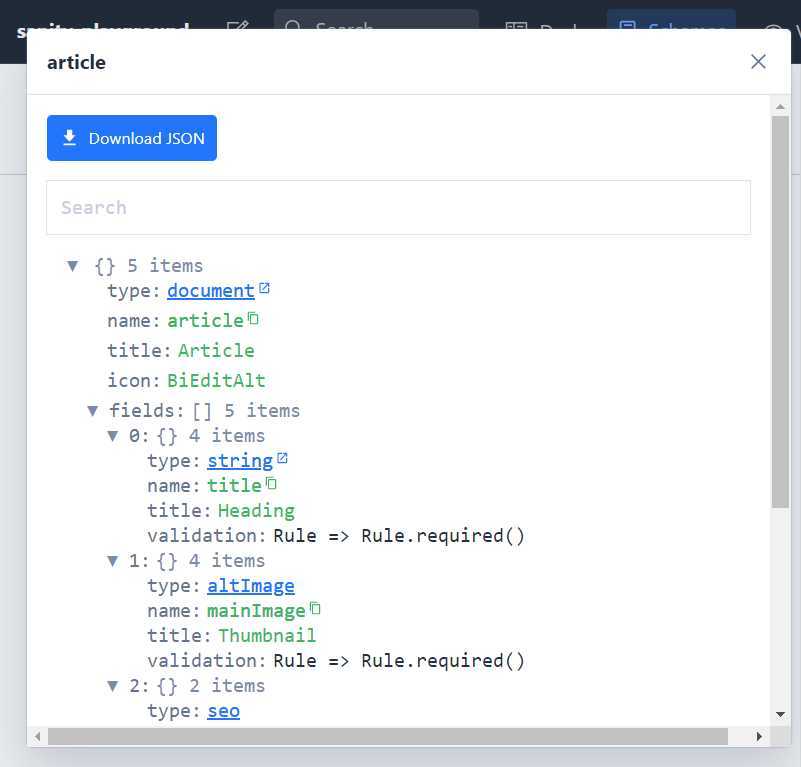
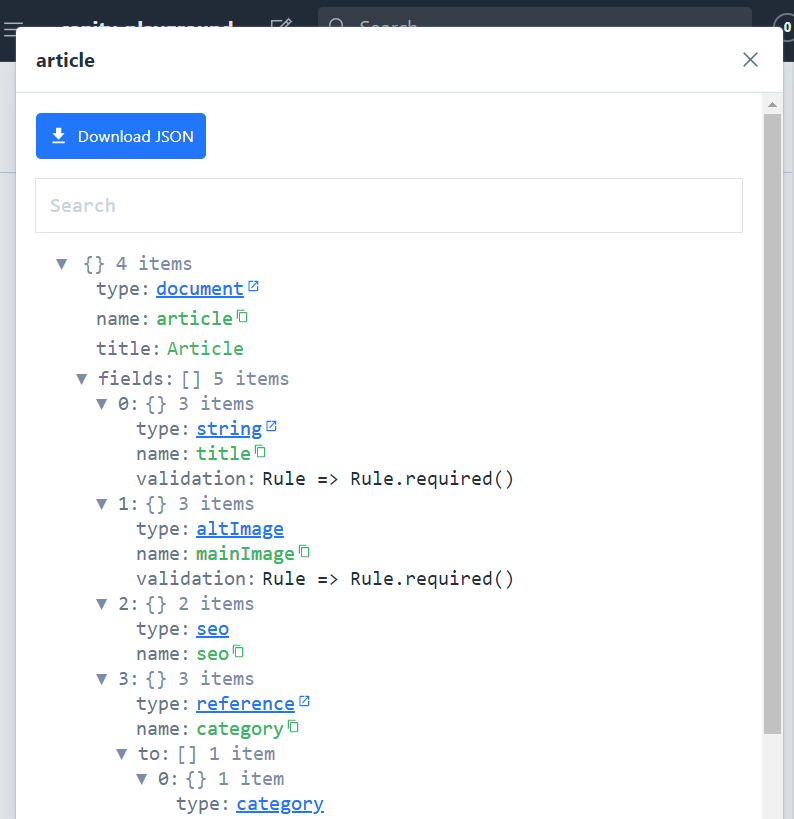
1.0.3 - config: typesToIgnore & keysToIgnore (#1)
* ignoreTypes test

* ignoreKeys test

* validate options

* config.dist.json

* validate "name" and "type" are no ignored keys

* updated README

* README whitespace

* README whitespace

* updated README images

* 1.0.3

diff --git a/src/data.ts b/src/data.ts
@@ -17,9 +17,20 @@ import {
 import { VscReferences, VscTextSize } from 'react-icons/vsc';
 import { GiSnail } from 'react-icons/gi';
 import { TiSortNumerically } from 'react-icons/ti';
+import { typesToIgnore, keysToIgnore } from 'config:@andre-brdoch/sanity-plugin-schema-inspector';
 import { TypeType, TypeGroupType } from './types';
 
-const { types } = schema._source;
+if (!Array.isArray(typesToIgnore) || typesToIgnore.some(t => typeof t !== 'string')) {
+  throw new Error('"typesToIgnore" option of schema inspector must be an array of strings');
+}
+if (!Array.isArray(keysToIgnore) || keysToIgnore.some(k => typeof k !== 'string')) {
+  throw new Error('"keysToIgnore" option of schema inspector must be an array of strings');
+}
+if (keysToIgnore.some(k => ['type', 'name'].includes(k))) {
+  throw new Error('"keysToIgnore" option of schema inspector must not include "type" or "name"');
+}
+
+const types = schema._source.types.filter((t: TypeType) => !typesToIgnore.includes(t.name));
 const docTypes = types.filter((t: TypeType) => t.type === 'document');
 const customFieldTypes = types.filter((t: TypeType) => !docTypes.includes(t));
 
@@ -71,3 +82,23 @@ export const getType = (name: string): TypeType => getTypeFromList(allTypes, nam
 export const typeExists = (name: string): boolean => getType(name) != null;
 
 export const isCoreType = (name: string): boolean => getTypeFromList(coreTypes, name) != null;
+
+const removeKeyFromObj = (obj: Object, keyToDelete: string) => {
+  // deep traverse
+  for (const key in obj) {
+    if (key === keyToDelete) {
+      delete obj[key];
+    } else if (typeof obj[key] === 'object') {
+      removeKeyFromObj(obj[key], keyToDelete);
+    }
+  }
+};
+
+export const removeHiddenKeysFromType = (type: TypeType): TypeType => {
+  if (keysToIgnore.length === 0) return type;
+  const copy = { ...type };
+  keysToIgnore.forEach((key: string) => {
+    removeKeyFromObj(copy, key);
+  });
+  return copy;
+};

diff --git a/src/components/Inspector.tsx b/src/components/Inspector.tsx
@@ -3,15 +3,13 @@ import ReactInspector from 'react-json-inspector';
 import Snackbar from 'part:@sanity/components/snackbar/default';
 import { MdOpenInNew, MdContentCopy } from 'react-icons/md';
 import TypeLink from './TypeLink';
-import { typeExists, isCoreType } from '../data';
+import { typeExists, isCoreType, removeHiddenKeysFromType } from '../data';
 import styles from './styles.css';
 import { TypeType } from '../types';
 
 const Inspector = (props: { type: TypeType }) => {
   const { type } = props;
-  const typeClean = { ...type };
-  // do not print full icon function
-  if (type?.icon?.name) typeClean.icon = type.icon.name;
+  const typeClean = removeHiddenKeysFromType(type);
   const [snackbarMsg, setSnackbarMsg] = React.useState(null);
 
   const copy = (text: string) => {
@@ -63,7 +61,6 @@ const Inspector = (props: { type: TypeType }) => {
   return (
     typeClean && (
       <div className={styles.inspectorContainer}>
-        {/* too: make isExpanded configurable */}
         <ReactInspector
           data={typeClean}
           isExpanded={() => true}

diff --git a/src/index.ts b/src/index.ts
@@ -9,6 +9,5 @@ export default {
   name: 'schemas',
   router,
   icon: BiBook,
-  // Todo: pass options
   component: Tool,
 };

diff --git a/README.md b/README.md
@@ -1,8 +1,12 @@
 # sanity-plugin-schema-inspector
 
-[Sanity](https://www.sanity.io/) tool plugin for inspecting your schemas. Make life easier for your frontend developers!
+[Sanity](https://www.sanity.io/) tool plugin for inspecting your schemas. Make life easier for your frontend developers - keep them sane!
+
+<br/>
 
 <img src="https://github.com/andre-brdoch/sanity-plugin-schema-inspector/blob/master/docs/demo.gif">
+
+<br/>
 
 ## Getting started
 
@@ -12,6 +16,35 @@ Install with [Sanity CLI](https://www.sanity.io/docs/cli):
 
 A new `Schemas` tab should show in your tools bar. All custom types defined in `schema.js` will be inspectable.
 
+<br/>
+
+## Configuration
+
+Configurations can be changed in your Sanity project under `./config/@andre-brdoch/sanity-plugin-schema-inspector.json`
+
+<br/>
+
+### `keysToIgnore`
+
+An array of strings with the keys that should be hidden in the inspector data structure.
+
+**Default**: `["icon"]`
+
+**Example**:
+`"keysToIgnore": ["icon", "fieldset", "fieldsets", "preview", "initialValue", "inputComponent"]`
+
+This will remove several keys from the inspector data structure that are not important when building your frontend.
+
+<br/>
+
+### `typesToIgnore`
+
+An array of strings with the names of types that should not be inspectable.
+
+**Example**: `typesToIgnore: ["faq"]`
+
+<br/>
+
 ## Features
 
 - inspect custom schema types
@@ -20,16 +53,22 @@ A new `Schemas` tab should show in your tools bar. All custom types defined in `
 - copy name by clicking `name` value
 - routing
 
+<br/>
+
 <img src="https://github.com/andre-brdoch/sanity-plugin-schema-inspector/blob/master/docs/overview.png">
+
+<br/>
 
 <img src="https://github.com/andre-brdoch/sanity-plugin-schema-inspector/blob/master/docs/inspector.png">
 
+<br/>
+
 ## Todos
 
-- add config for controlling which [paths in the inspector are expanded](https://github.com/Lapple/react-json-inspector#propsisexpanded)
 - add option for resolving the complete data model, instead of just linking to the other types
+
+<br/>
 
 ## Known Issues
 
 - When navigating from other tools to the inspector, a reload is sometimes required
-- certain fields like `icon` occupy a lot of space
